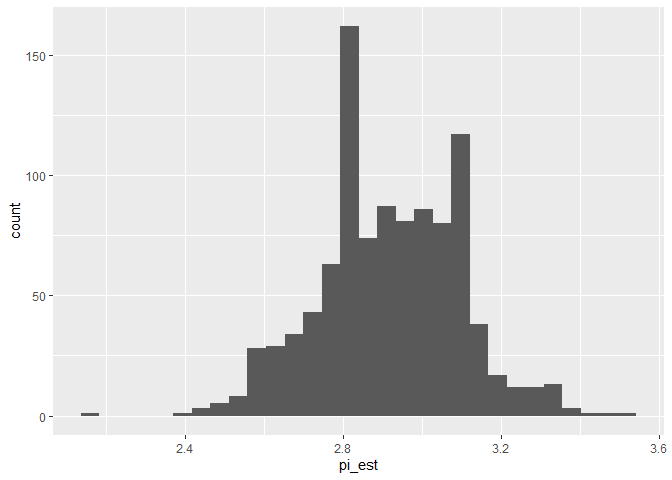
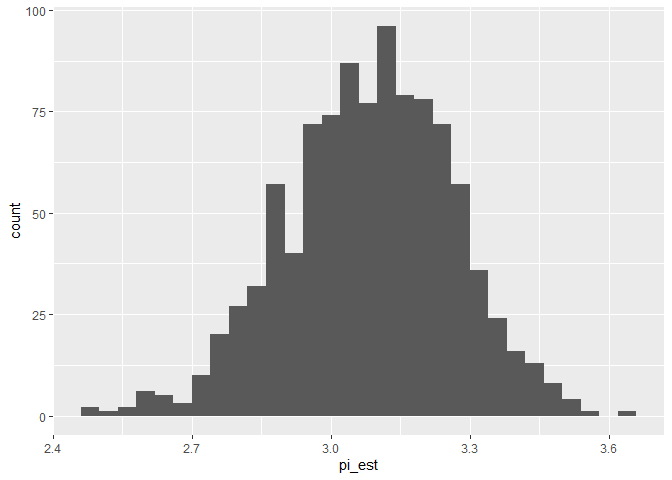
ei

diff --git a/data-science-curriculum-build/challenges/c07-monte-carlo-assignment.md b/data-science-curriculum-build/challenges/c07-monte-carlo-assignment.md
@@ -197,7 +197,11 @@ square $x \in [0, 1]$ and $y \in [0, 1]$.
 ``` r
 ## TASK: Choose a sample size and generate samples
 n <- 100 # Choose a sample size
-df_q1 <- tibble(x = runif(n,0,1),y = runif(n,0,1)) # Generate the data
+df_q1 <- 
+  tibble(
+    x = runif(n,0,1),
+    y = runif(n,0,1)
+  ) # Generate the data
 ```
 
 Use the following to check that you’ve used the correct variable names.
@@ -248,10 +252,12 @@ Answer the questions below.
 ``` r
 ## TASK: Finish implementing this function
 stat <- function(x, y) {
-  value <- (sqrt(x^2 + y^2))
-  stat = value <= 1
-  replace_with <- 1*4
-  stat[stat == TRUE] <- replace_with
+ # value <- (sqrt(x^2 + y^2))
+  ind = sqrt(x^2+y^2) <= 1
+  stat = 4 * ind
+  #stat = value <= 1
+  #replace_with <- 1*4
+  #stat[stat == TRUE] <- replace_with
   return(stat)
   # TODO: Finish implementing this function
 }
@@ -331,7 +337,7 @@ df_q3
     ## # A tibble: 1 × 1
     ##   pi_est
     ##    <dbl>
-    ## 1   2.92
+    ## 1   3.08
 
 Use the following to check that you’ve used the correct variable names.
 (NB. This does not check correctness.)
@@ -439,7 +445,7 @@ df_q5
     ## # A tibble: 1 × 2
     ##   pi_lo pi_up
     ##   <dbl> <dbl>
-    ## 1  2.56  3.28
+    ## 1  2.72  3.44
 
 ### **q6** CLT confidence interval
 
@@ -469,7 +475,7 @@ df_q6
     ## # A tibble: 1 × 2
     ##   pi_lo pi_up
     ##   <dbl> <dbl>
-    ## 1  2.57  3.27
+    ## 1  2.75  3.41
 
 **Observations**:
 
